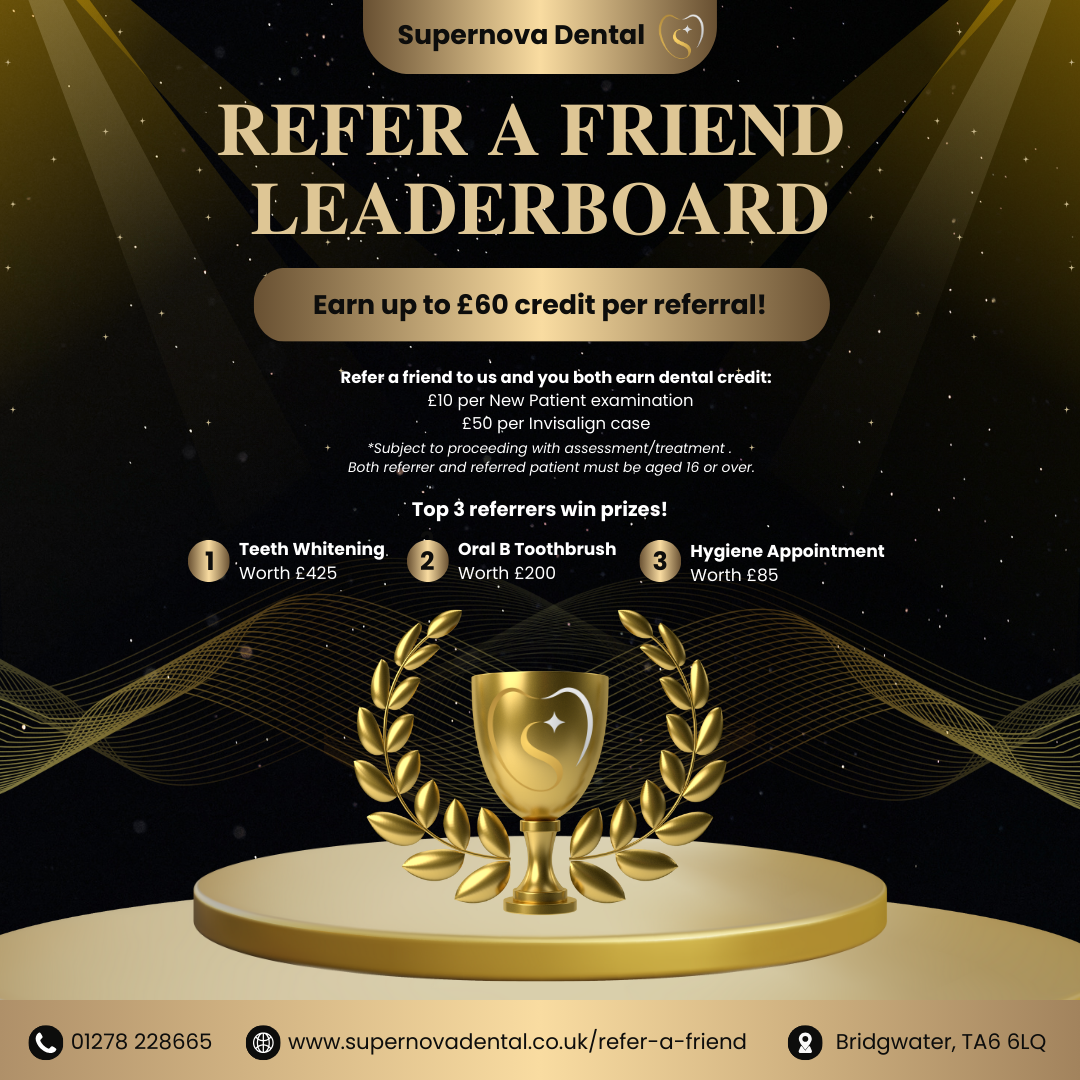
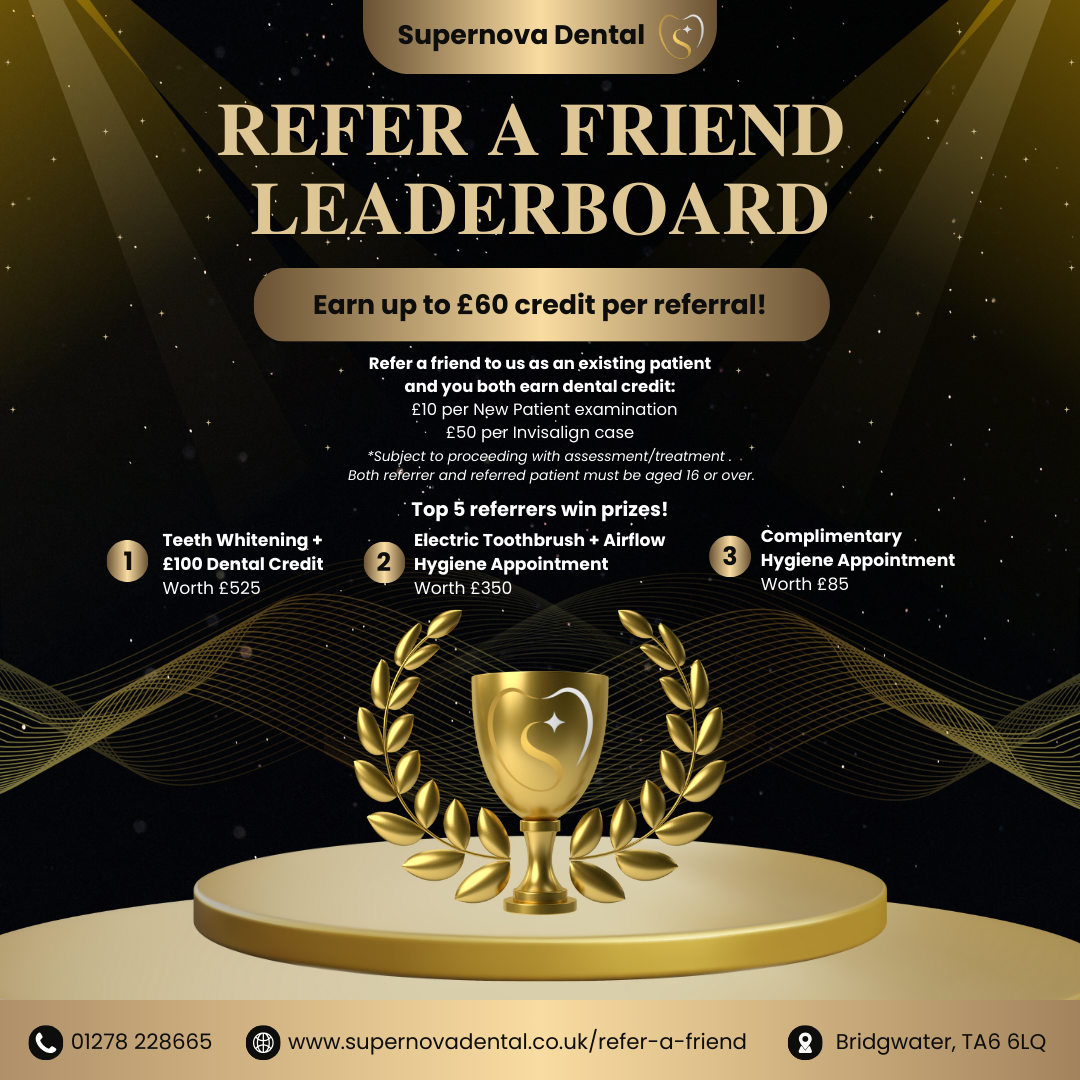
feat: enhance ReferAFriendForm with social CTAs and update success message

Changed region(s): [[0.0917, 0.3056, 0.8861, 0.55]]

diff --git a/src/components/blocks/ReferAFriendContent/ReferAFriendForm/ReferAFriendForm.tsx b/src/components/blocks/ReferAFriendContent/ReferAFriendForm/ReferAFriendForm.tsx
@@ -1,11 +1,13 @@
 /* eslint-disable @typescript-eslint/no-unsafe-argument */
 'use client';
 
+import { SOCIAL_CTAS } from '@/components/CornerNav/CornerNav';
 import { Button } from '@/components/ui/button';
 import { Card, CardContent, CardDescription, CardFooter, CardHeader, CardTitle } from '@/components/ui/card';
 import { Checkbox } from '@/components/ui/checkbox';
 import { Input } from '@/components/ui/input';
 import { Label } from '@/components/ui/label';
+import PatientToggleSection from '@/components/ui/toggle';
 import { DentallyPortal } from '@/lib/constants';
 import { zodResolver } from '@hookform/resolvers/zod';
 import { motion } from 'framer-motion';
@@ -18,7 +20,6 @@ import { useInView } from 'react-intersection-observer';
 import { referAFriendSignupSchema, type ReferAFriendFormData } from '../../../../../types/ReferAFriendForm';
 import BarLoader from '../../../BarLoader/BarLoader';
 import PrivacyPolicyModal from '../../../PrivacyModal/PrivacyModal';
-import PatientToggleSection from '@/components/ui/toggle';
 
 const defaultValues: ReferAFriendFormData = {
   fullname: '',
@@ -251,7 +252,7 @@ export default function ReferAFriendForm({
                               referralLink ? 'opacity-100' : 'opacity-0 pointer-events-none'
                             }`}
                           >
-                            <Button onClick={handleCopyLink} type='button' size='sm'>
+                            <Button onClick={handleCopyLink} type='button' size='lg'>
                               {copied ? 'Copied!' : 'Copy Your Referral Link'}
                             </Button>
                           </div>
@@ -326,7 +327,7 @@ export default function ReferAFriendForm({
                   </CardContent>
 
                   <CardFooter className='pt-4'>
-                    <Button type='submit' className='w-full' disabled={isSubmitting}>
+                    <Button type='submit' className='w-full' disabled={isSubmitting} size='lg'>
                       {isSubmitting ? <BarLoader /> : 'Submit Referral'}
                     </Button>
                   </CardFooter>
@@ -360,10 +361,10 @@ export default function ReferAFriendForm({
             >
               <FaTimes />
             </button>
-            <h2 className='text-3xl font-semibold mb-6'>Thank you, {values.fullname}, for signing up!</h2>
+            <h2 className='text-3xl font-semibold mb-6'>Thank you, {values.fullname}, for your enquiry!</h2>
             <div className='mb-6 flex flex-col gap-2'>
               <p>
-                You&apos;ve been successfully signed up for our promotions and updates. We&apos;ll send details to{' '}
+                You&apos;ve been successfully signed up. We&apos;ll send details to{' '}
                 {values.email}.
               </p>
               <p>Please check your spam folder if you don&apos;t see it in your inbox.</p>
@@ -377,6 +378,28 @@ export default function ReferAFriendForm({
                   Book Now!
                 </button>
               </Link>
+            </div>
+            <div className='flex gap-4 items-center justify-center mt-6 pt-4'>
+              {SOCIAL_CTAS.map((l, idx) => (
+                <motion.a
+                  key={idx}
+                  href={l.href}
+                  target='_blank'
+                  initial={{ opacity: 0, y: -8 }}
+                  animate={{
+                    opacity: 1,
+                    y: 0,
+                    transition: {
+                      delay: 1 + idx * 0.125,
+                      duration: 0.5,
+                      ease: 'easeInOut',
+                    },
+                  }}
+                  exit={{ opacity: 0, y: -8 }}
+                >
+                  <l.Component className='text-3xl text-grey transition-colors' />
+                </motion.a>
+              ))}
             </div>
           </div>
         </div>

diff --git a/src/components/blocks/InvisalignOpenDayContent/InvisalignOpenDayForm/InvisalignOpenDayForm.tsx b/src/components/blocks/InvisalignOpenDayContent/InvisalignOpenDayForm/InvisalignOpenDayForm.tsx
@@ -261,10 +261,10 @@ export default function InvisalignOpenDayForm({
             >
               <FaTimes />
             </button>
-            <h2 className='text-3xl font-semibold mb-6'>Thank you, {values.fullname}, for signing up!</h2>
+            <h2 className='text-3xl font-semibold mb-6'>Thank you, {values.fullname}, for your enquiry!</h2>
             <div className='mb-6 flex flex-col gap-2'>
               <p>
-                You&apos;ve been successfully signed up for our promotions and updates. We&apos;ll send details to{' '}
+                You&apos;ve been successfully signed up. We&apos;ll send details to{' '}
                 {values.email}.
               </p>
               <p>Please check your spam folder if you don&apos;t see it in your inbox.</p>

diff --git a/src/components/CornerNav/CornerNav.tsx b/src/components/CornerNav/CornerNav.tsx
@@ -339,7 +339,7 @@ const LINKS = [
   },
 ];
 
-const SOCIAL_CTAS = [
+export const SOCIAL_CTAS = [
   {
     Component: SiFacebook,
     href: 'https://www.facebook.com/profile.php?id=61567279201971',
